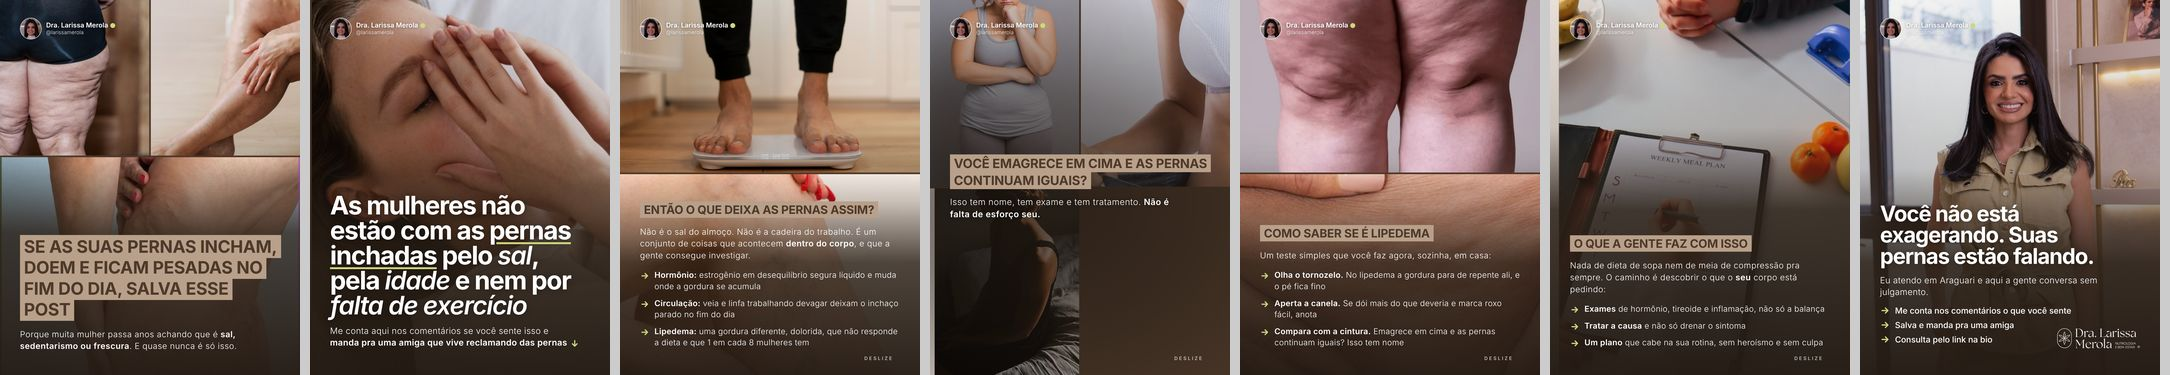
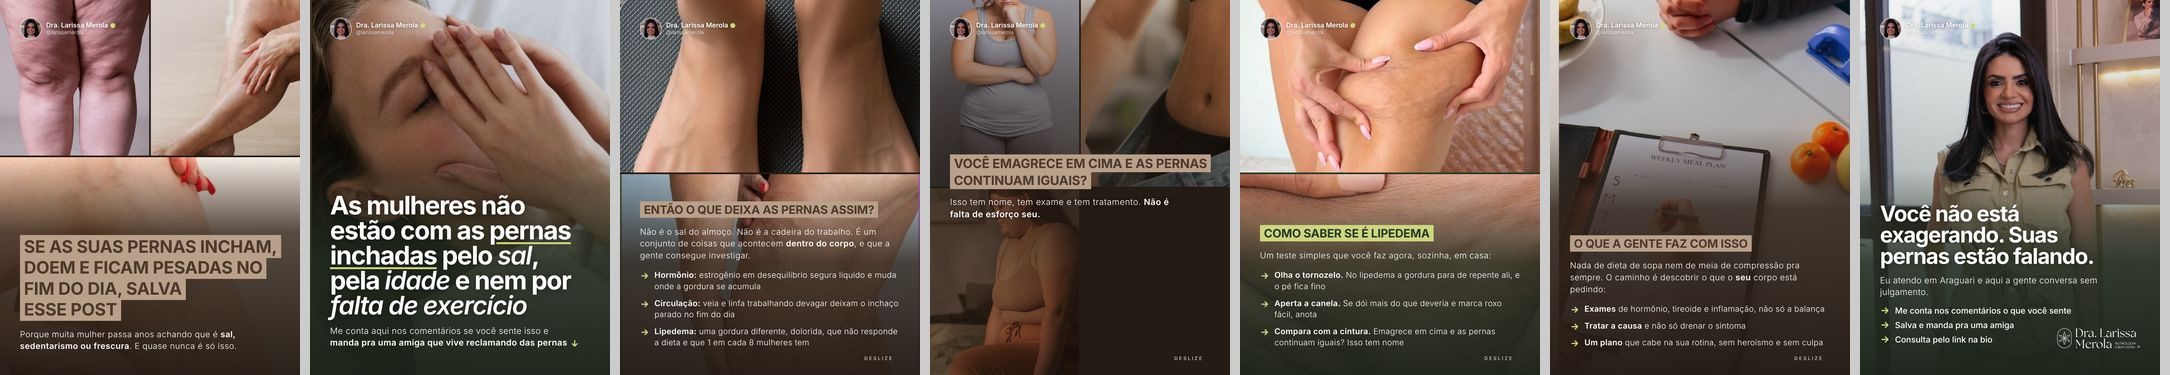
Paleta 60/40: véus alternam marrom e verde escuro; anti-viúva em rótulos e h1; regras atualizadas
Claude-Session: https://claude.ai/code/session_01WN8xztW6W2hHDkg5MavPGS

diff --git a/larissa-merola/capa/v2.css b/larissa-merola/capa/v2.css
@@ -3,6 +3,8 @@
    linha-árvore, numeral gigante, foto com tarja, fecho com a Dra.) + o que é só da marca e sumiu
    (serifa da logo nos títulos, padrão de folhas, isótipo em traço). Sem colchetes, sem emoji, sem caps bold. */
 :root {
+  --v: 48,36,26;             /* cor do véu das fotos: marrom (padrão); .v-musgo troca pra verde escuro */
+  --vf: 36,27,20;            /* fim do véu */
   --musgo: #2B3629;          /* fundo escuro (medido nos slides 2026: #243023–#2D3B2D) */
   --musgo-texto: #343B30;    /* texto escuro (manual) */
   --salvia: #A7B39C;         /* fundo sálvia claro (OUT/2026) */
@@ -51,7 +53,7 @@ p b, li b { font-weight: 600; }
 /* ---- capa-foto: foto inteira, véu, título em serifa, logo branca ---- */
 .capa-foto .foto { position: absolute; inset: 0; z-index: 0; }
 .capa-foto .foto img { width: 100%; height: 100%; object-fit: cover; }
-.capa-foto .veu { position: absolute; inset: 0; z-index: 0; background: linear-gradient(180deg, rgba(48,36,26,.18) 0%, rgba(48,36,26,.08) 35%, rgba(48,36,26,.84) 72%, rgba(43,33,24,.97) 100%); }
+.capa-foto .veu { position: absolute; inset: 0; z-index: 0; background: linear-gradient(180deg, rgba(var(--v),.18) 0%, rgba(var(--v),.08) 35%, rgba(var(--v),.84) 72%, rgba(var(--v),.97) 100%); }
 .capa-foto .cabecalho { color: rgba(255,255,255,.85); }
 .capa-foto .cabecalho i { background: var(--saude); }
 .capa-foto .bloco { position: absolute; left: 96px; right: 96px; bottom: 250px; color: var(--branco); display: flex; flex-direction: column; gap: 30px; }
@@ -157,10 +159,13 @@ p b, li b { font-weight: 600; }
 .chip .arroba { font-size: 19px; font-weight: 300; opacity: .9; }
 .chip .selo { display: inline-block; width: 18px; height: 18px; border-radius: 50%; background: var(--saude); margin-left: 8px; vertical-align: -2px; }
 
-.tipo2 { background: var(--marrom); color: var(--branco); }
+.tipo2 { background: rgb(var(--vf)); color: var(--branco); }
+.v-musgo { --v: 36,46,34; --vf: 28,36,26; }
+.v-musgo .rotulo-caixa { background: var(--saude); color: var(--musgo); }
+.v-musgo.capa-colagem .grade, .v-musgo.mosaico .grade, .v-musgo.corpo-foto.duas .foto { background: var(--musgo); }
 .tipo2 .foto { position: absolute; inset: 0; z-index: 0; }
 .tipo2 .foto img { width: 100%; height: 100%; object-fit: cover; }
-.tipo2 .veu { position: absolute; inset: 0; z-index: 0; background: linear-gradient(180deg, rgba(48,36,26,.10) 0%, rgba(48,36,26,.20) 40%, rgba(43,33,24,.88) 70%, rgba(36,27,20,.97) 100%); }
+.tipo2 .veu { position: absolute; inset: 0; z-index: 0; background: linear-gradient(180deg, rgba(var(--v),.10) 0%, rgba(var(--v),.20) 40%, rgba(var(--v),.88) 70%, rgba(var(--vf),.97) 100%); }
 .tipo2 .bloco { position: absolute; left: 72px; right: 72px; bottom: 96px; display: flex; flex-direction: column; gap: 26px; }
 .tipo2 h1 { font-family: var(--sans); font-weight: 700; font-size: 92px; line-height: .98; letter-spacing: -0.035em; text-wrap: balance; text-shadow: 0 2px 20px rgba(0,0,0,.35); }
 .tipo2 h1 u { text-decoration: underline; text-decoration-color: var(--saude); text-decoration-thickness: 7px; text-underline-offset: 10px; }
@@ -173,18 +178,18 @@ p b, li b { font-weight: 600; }
 .rotulo-caixa { display: inline; background: var(--marrom-claro); color: var(--marrom); font-weight: 700; font-size: 46px; line-height: 1.32; letter-spacing: -0.01em; text-transform: uppercase; padding: 4px 14px; box-decoration-break: clone; -webkit-box-decoration-break: clone; }
 
 /* capa colagem: duas fotos em cima, uma embaixo, texto sobre a de baixo */
-.capa-colagem .grade { position: absolute; inset: 0; z-index: 0; display: grid; grid-template-columns: 1fr 1fr; grid-template-rows: 560px 1fr; gap: 6px; background: var(--marrom); }
+.capa-colagem .grade { position: absolute; inset: 0; z-index: 0; display: grid; grid-template-columns: 1fr 1fr; grid-template-rows: 560px 1fr; gap: 6px; background: rgb(var(--vf)); }
 .capa-colagem .grade div { overflow: hidden; }
 .capa-colagem .grade div:nth-child(3) { grid-column: 1 / -1; }
 .capa-colagem .grade img { width: 100%; height: 100%; object-fit: cover; }
-.capa-colagem .veu { background: linear-gradient(180deg, rgba(48,36,26,0) 0%, rgba(48,36,26,0) 42%, rgba(43,33,24,.80) 62%, rgba(36,27,20,.97) 100%); }
+.capa-colagem .veu { background: linear-gradient(180deg, rgba(var(--v),0) 0%, rgba(var(--v),0) 42%, rgba(var(--v),.80) 62%, rgba(var(--vf),.97) 100%); }
 .capa-colagem .bloco { bottom: 84px; gap: 30px; text-align: left; align-items: flex-start; }
 .capa-colagem .rotulo-caixa { font-size: 62px; line-height: 1.22; }
 .capa-colagem .texto { font-size: 30px; line-height: 1.4; font-weight: 300; letter-spacing: 0.03em; max-width: 880px; }
 .capa-colagem .texto b { font-weight: 600; }
 
 /* corpo foto: foto inteira, rótulo em caixa, texto corrido e itens com seta */
-.corpo-foto .veu { background: linear-gradient(180deg, rgba(48,36,26,.08) 0%, rgba(48,36,26,.22) 34%, rgba(43,33,24,.88) 56%, rgba(36,27,20,.98) 100%); }
+.corpo-foto .veu { background: linear-gradient(180deg, rgba(var(--v),.08) 0%, rgba(var(--v),.22) 34%, rgba(var(--v),.88) 56%, rgba(var(--vf),.98) 100%); }
 .corpo-foto .bloco { bottom: 96px; gap: 30px; }
 .corpo-foto .rotulo-caixa { font-size: 42px; align-self: flex-start; }
 .corpo-foto .texto { font-size: 30px; line-height: 1.42; font-weight: 300; letter-spacing: 0.03em; }
@@ -196,7 +201,7 @@ p b, li b { font-weight: 600; }
 .corpo-foto .deslize { color: rgba(255,255,255,.8); bottom: 50px; }
 
 /* fecho tipo 2: a Dra. inteira, CTA em três linhas fortes */
-.fecho2 .veu { background: linear-gradient(180deg, rgba(48,36,26,.05) 0%, rgba(48,36,26,.25) 45%, rgba(43,33,24,.9) 70%, rgba(36,27,20,.98) 100%); }
+.fecho2 .veu { background: linear-gradient(180deg, rgba(var(--v),.05) 0%, rgba(var(--v),.25) 45%, rgba(var(--v),.9) 70%, rgba(var(--vf),.98) 100%); }
 .fecho2 .foto img { object-position: 50% 10%; }
 .fecho2 .bloco { bottom: 110px; gap: 28px; }
 .fecho2 h1 { font-size: 78px; }
@@ -207,16 +212,16 @@ p b, li b { font-weight: 600; }
 .fecho2 .logo img { height: 72px; opacity: .95; }
 
 /* corpo-foto com duas fotos empilhadas (mais imagem): foto de cima livre, foto de baixo recebe o texto */
-.corpo-foto.duas .foto { display: grid; grid-template-rows: 46% 1fr; gap: 6px; background: var(--marrom); }
+.corpo-foto.duas .foto { display: grid; grid-template-rows: 46% 1fr; gap: 6px; background: rgb(var(--vf)); }
 .corpo-foto.duas .foto div { overflow: hidden; }
 .corpo-foto.duas .foto img { width: 100%; height: 100%; object-fit: cover; }
-.corpo-foto.duas .veu { background: linear-gradient(180deg, rgba(48,36,26,0) 0%, rgba(48,36,26,0) 46%, rgba(48,36,26,.22) 54%, rgba(43,33,24,.82) 70%, rgba(36,27,20,.96) 100%); }
+.corpo-foto.duas .veu { background: linear-gradient(180deg, rgba(var(--v),0) 0%, rgba(var(--v),0) 46%, rgba(var(--v),.22) 54%, rgba(var(--v),.82) 70%, rgba(var(--vf),.96) 100%); }
 
 /* mosaico: quatro fotos em grade, frase no meio em caixa */
-.mosaico .grade { position: absolute; inset: 0; z-index: 0; display: grid; grid-template-columns: 1fr 1fr; grid-template-rows: 1fr 1fr; gap: 6px; background: var(--marrom); }
+.mosaico .grade { position: absolute; inset: 0; z-index: 0; display: grid; grid-template-columns: 1fr 1fr; grid-template-rows: 1fr 1fr; gap: 6px; background: rgb(var(--vf)); }
 .mosaico .grade div { overflow: hidden; }
 .mosaico .grade img { width: 100%; height: 100%; object-fit: cover; }
-.mosaico .veu { background: radial-gradient(95% 62% at 40% 55%, rgba(36,27,20,.8) 0%, rgba(36,27,20,.55) 48%, rgba(36,27,20,.15) 100%); }
+.mosaico .veu { background: radial-gradient(95% 62% at 40% 55%, rgba(var(--vf),.8) 0%, rgba(var(--vf),.55) 48%, rgba(var(--vf),.15) 100%); }
 .mosaico .bloco { top: 50%; bottom: auto; transform: translateY(-50%); align-items: flex-start; text-align: left; gap: 26px; }
 .mosaico .rotulo-caixa { font-size: 46px; }
 .mosaico .texto { font-size: 31px; line-height: 1.4; font-weight: 300; letter-spacing: 0.03em; max-width: 820px; text-shadow: 0 1px 12px rgba(0,0,0,.5); }

diff --git a/larissa-merola/capa/tipografia.js b/larissa-merola/capa/tipografia.js
@@ -7,7 +7,7 @@
     let n; while ((n = w.nextNode())) if (n.nodeValue.trim()) out.push(n);
     return out;
   }
-  document.querySelectorAll('h1 span, h2, .sem-viuva').forEach(el => {
+  document.querySelectorAll('h1 span, h1, h2, h3, .rotulo-caixa, .cards .card b, .fecho2 .cta span, .sem-viuva').forEach(el => {
     const nos = nosDeTexto(el);
     if (!nos.length) return;
     const total = nos.map(n => n.nodeValue.trim().split(/\s+/).length).reduce((a, b) => a + b, 0);

diff --git a/larissa-merola/REGRAS.md b/larissa-merola/REGRAS.md
@@ -23,8 +23,10 @@ explicação de cada um.
 
 ## 2. Cor: mais marrom, menos verde
 
-Feedback de 28/10: "tá verde demais, falta amarronzar". Regra: num carrossel de 7 slides, no
-máximo 2 com fundo verde (musgo ou sálvia). O resto em papel quente, marrom-claro, marrom, taupe
+Feedback de 28/10: "tá verde demais, falta amarronzar". Ajuste de 28/10 à noite: marrom predominante, uns 60%, e o verde
+escuro de volta nos outros 40%, porque ele é parte da composição dela. No tipo 2 o véu das fotos
+alterna marrom e musgo (slides ímpares em verde, fecho em verde); no tipo 1, capa em musgo, miolo
+em papel/marrom-claro/marrom, dado e fecho em musgo. O resto em papel quente, marrom-claro, marrom, taupe
 e foto com véu marrom. Padrão de folhas do rodapé nas cores musgo + marrom + marrom-claro + saúde.
 Tons já listados em `capa/v2.css`: `--marrom #4D392A`, `--marrom-claro #B8A08A`, taupe `#8C7B6B`,
 papel quente `#EFE8DC`.
@@ -35,6 +37,12 @@ Regra do Victor (28/10): se um slide está alinhado à esquerda, todos os textos
 ficam à esquerda. Nada de capa centralizada com miolo à esquerda. No tipo 2 tudo é à esquerda,
 inclusive colagem e mosaico. No tipo 1, o que for centralizado (notícia, capa de ilustração) só
 convive com slides também centralizados.
+
+## 2c. Viúvas: nunca
+
+Nenhum título, rótulo ou frase de destaque termina com uma palavra sozinha na última linha
+(`capa/tipografia.js` junta as duas últimas palavras com espaço fixo em h1, h2, h3, rótulos em
+caixa e títulos de card). Conferir na prancha antes de entregar.
 
 ## 3. Tom de voz: menos professora, mais conversa
 
